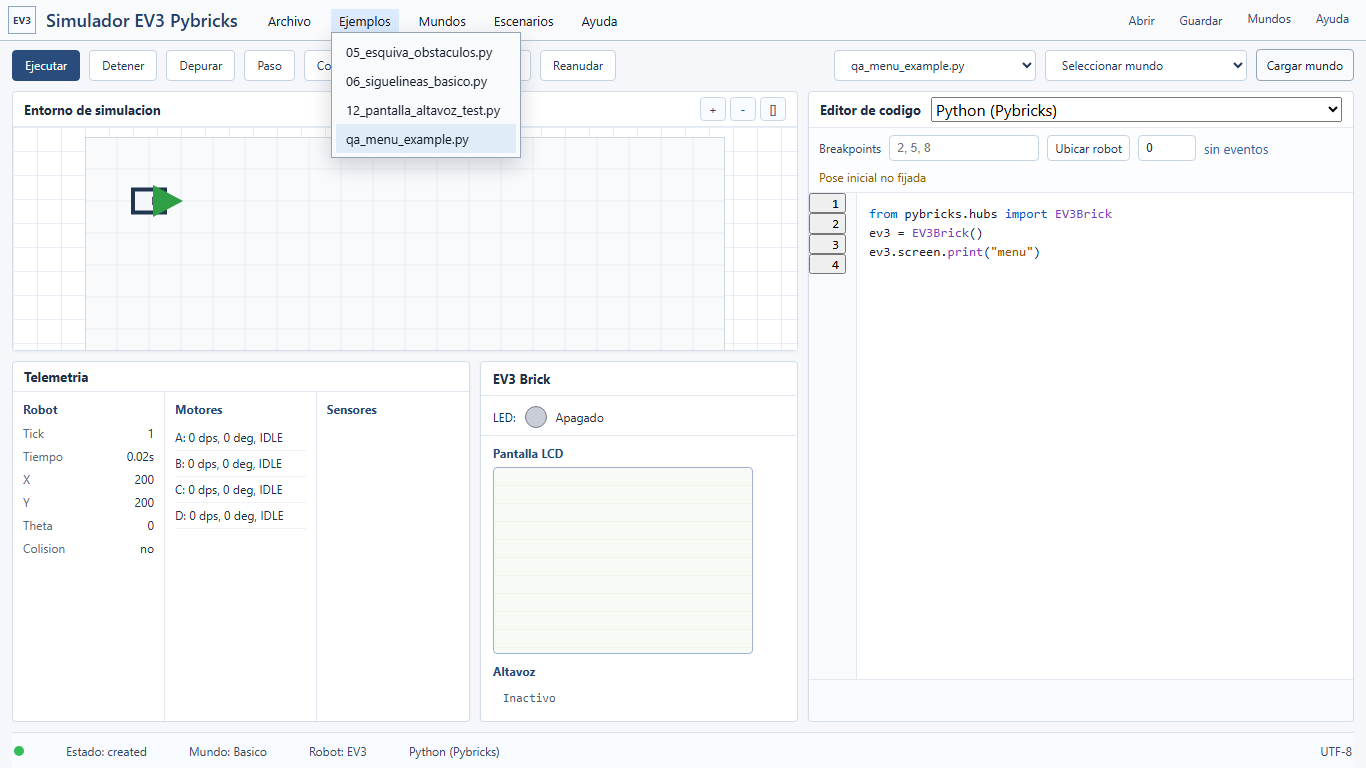
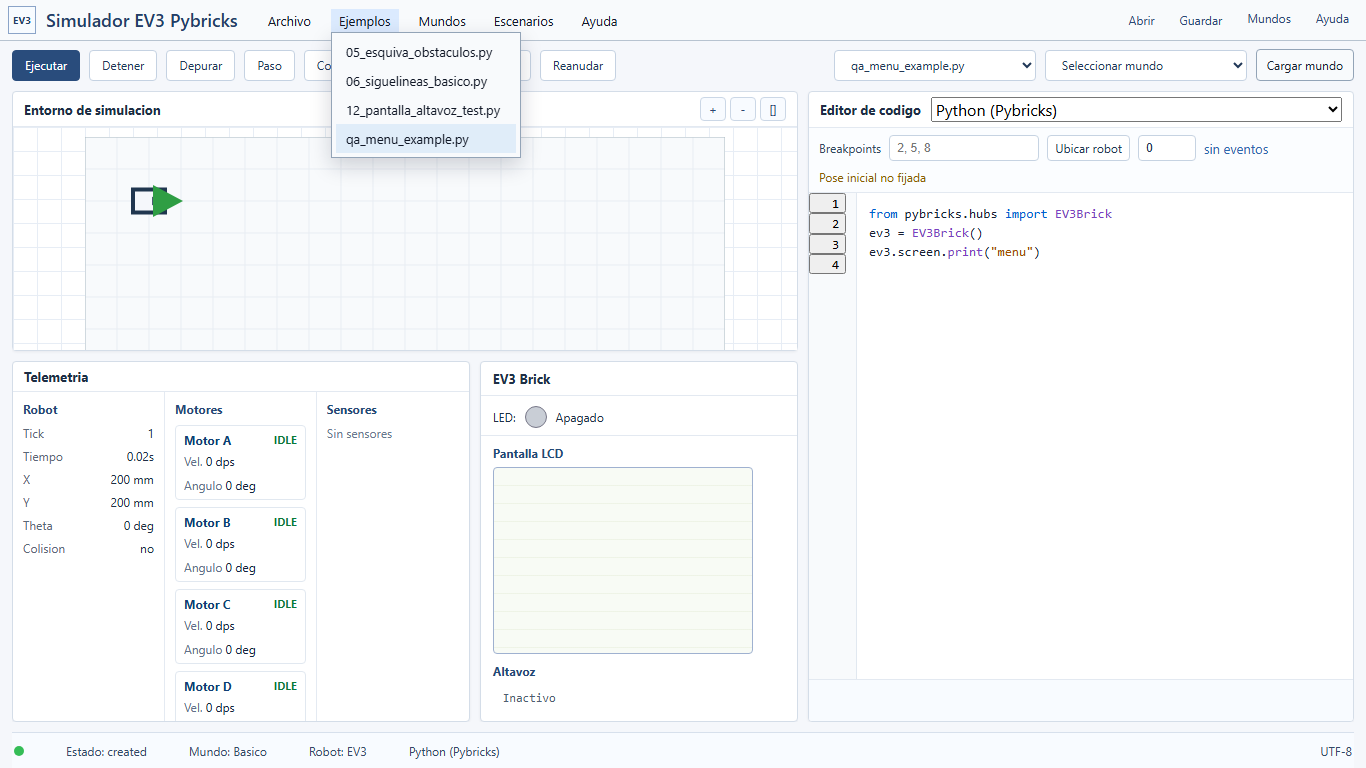
ui: mejorar lectura de telemetria

diff --git a/simulador_ev3/web/static/js/simulation_app.js b/simulador_ev3/web/static/js/simulation_app.js
@@ -153,10 +153,80 @@
   }
 
   function escapeHtml(value) {
-    return value
+    return String(value ?? "")
       .replaceAll("&", "&amp;")
       .replaceAll("<", "&lt;")
       .replaceAll(">", "&gt;");
+  }
+
+  function formatTelemetryNumber(value, digits = 2) {
+    const number = Number(value);
+    if (!Number.isFinite(number)) return "--";
+    return Number.isInteger(number) ? String(number) : number.toFixed(digits);
+  }
+
+  function formatTelemetryValue(value) {
+    if (value === true) return "si";
+    if (value === false) return "no";
+    if (value === null || value === undefined) return "--";
+    if (typeof value === "number") return formatTelemetryNumber(value);
+    return escapeHtml(value);
+  }
+
+  function readableSensorKey(key) {
+    return {
+      distance_mm: "Distancia",
+      presence: "Presencia",
+      reflected: "Reflejado",
+      ambient: "Ambiente",
+      color: "Color",
+      angle: "Angulo",
+      speed: "Velocidad",
+    }[key] || key.replaceAll("_", " ");
+  }
+
+  function sensorUnit(key) {
+    return {
+      distance_mm: " mm",
+      angle: " deg",
+      speed: " dps",
+    }[key] || "";
+  }
+
+  function renderMotorTelemetry(motor) {
+    const state = escapeHtml(motor.state || "IDLE");
+    return `
+      <article class="telemetry-card motor-card">
+        <div class="telemetry-card-title">
+          <span>Motor ${escapeHtml(motor.port)}</span>
+          <span class="telemetry-state">${state}</span>
+        </div>
+        <div class="motor-metrics">
+          <span><b>Vel.</b> ${formatTelemetryNumber(motor.speed)} dps</span>
+          <span><b>Angulo</b> ${formatTelemetryNumber(motor.angle)} deg</span>
+        </div>
+      </article>
+    `;
+  }
+
+  function renderSensorTelemetry(sensor) {
+    const value = sensor.value || {};
+    const entries = Object.entries(value).filter(([key]) => key !== "port");
+    const rows = entries.length
+      ? entries.map(([key, item]) => `
+          <dt>${escapeHtml(readableSensorKey(key))}</dt>
+          <dd>${formatTelemetryValue(item)}${sensorUnit(key)}</dd>
+        `).join("")
+      : "<dt>Valor</dt><dd>--</dd>";
+    return `
+      <article class="telemetry-card">
+        <div class="telemetry-card-title">
+          <span>${escapeHtml(sensor.port)}</span>
+          <span>${escapeHtml(sensor.type)}</span>
+        </div>
+        <dl class="telemetry-mini-list">${rows}</dl>
+      </article>
+    `;
   }
 
   function highlightCodeLine(line) {
@@ -555,19 +625,21 @@
     telemetry.innerHTML = `
       <dt>Tick</dt><dd>${snapshot.tick}</dd>
       <dt>Tiempo</dt><dd>${snapshot.sim_time_s}s</dd>
-      <dt>X</dt><dd>${robot.x_mm}</dd>
-      <dt>Y</dt><dd>${robot.y_mm}</dd>
-      <dt>Theta</dt><dd>${robot.theta_deg}</dd>
+      <dt>X</dt><dd>${formatTelemetryNumber(robot.x_mm)} mm</dd>
+      <dt>Y</dt><dd>${formatTelemetryNumber(robot.y_mm)} mm</dd>
+      <dt>Theta</dt><dd>${formatTelemetryNumber(robot.theta_deg)} deg</dd>
       <dt>Colision</dt><dd>${snapshot.colliding ? "si" : "no"}</dd>
     `;
     const motors = document.getElementById("motors");
-    motors.innerHTML = (snapshot.motors || [])
-      .map((m) => `<div>${m.port}: ${m.speed} dps, ${m.angle} deg, ${m.state}</div>`)
-      .join("");
+    const motorItems = snapshot.motors || [];
+    motors.innerHTML = motorItems.length
+      ? motorItems.map(renderMotorTelemetry).join("")
+      : '<p class="telemetry-empty">Sin motores</p>';
     const sensors = document.getElementById("sensors");
-    sensors.innerHTML = (snapshot.sensors || [])
-      .map((s) => `<div>${s.port}: ${s.type} = ${JSON.stringify(s.value)}</div>`)
-      .join("");
+    const sensorItems = snapshot.sensors || [];
+    sensors.innerHTML = sensorItems.length
+      ? sensorItems.map(renderSensorTelemetry).join("")
+      : '<p class="telemetry-empty">Sin sensores</p>';
   }
 
   function updateBrick(snapshot) {

diff --git a/simulador_ev3/web/static/css/app.css b/simulador_ev3/web/static/css/app.css
@@ -631,17 +631,78 @@ dd {
   font-family: Segoe UI, Arial, sans-serif;
 }
 
-.sim-telemetry-pane #motors > div,
-.sim-telemetry-pane #sensors > div {
-  margin: 0;
-  padding: 5px 0;
-  border: 0;
-  border-bottom: 1px solid #eef2f6;
+.sim-telemetry-pane #motors,
+.sim-telemetry-pane #sensors {
+  display: grid;
+  gap: 7px;
+}
+
+.telemetry-card {
+  min-width: 0;
+  padding: 7px 8px;
+  border: 1px solid #e1e8f0;
+  border-radius: 4px;
   background: #fff;
   color: #1f2f46;
   font-size: 12px;
-  line-height: 1.25;
+}
+
+.telemetry-card-title {
+  display: flex;
+  justify-content: space-between;
+  gap: 8px;
+  margin-bottom: 5px;
+  color: #0f3f75;
+  font-weight: 700;
+}
+
+.telemetry-state {
+  color: #0a7a39;
+  font-size: 11px;
+}
+
+.telemetry-mini-list {
+  display: grid;
+  grid-template-columns: auto minmax(0, 1fr);
+  gap: 4px 8px;
+  margin: 0;
+}
+
+.telemetry-mini-list dt {
+  color: #607089;
+}
+
+.telemetry-mini-list dd {
+  color: #14253c;
+  text-align: right;
   overflow-wrap: anywhere;
+}
+
+.motor-card {
+  padding: 6px 8px;
+}
+
+.motor-metrics {
+  display: flex;
+  gap: 8px;
+  flex-wrap: wrap;
+  color: #14253c;
+  font-size: 12px;
+}
+
+.motor-metrics span {
+  white-space: nowrap;
+}
+
+.motor-metrics b {
+  color: #607089;
+  font-weight: 400;
+}
+
+.telemetry-empty {
+  margin: 0;
+  color: #68788f;
+  font-size: 12px;
 }
 
 .sim-code-pane {

diff --git a/tests/web/test_web_app.py b/tests/web/test_web_app.py
@@ -313,12 +313,17 @@ def test_telemetry_panel_uses_three_readable_columns(tmp_path):
 
     html = client.get("/").get_data(as_text=True)
     css = client.get("/static/css/app.css").get_data(as_text=True)
+    js = client.get("/static/js/simulation_app.js").get_data(as_text=True)
 
     assert "<h3>Robot</h3>" in html
     assert "<h3>Motores</h3>" in html
     assert "<h3>Sensores</h3>" in html
     assert "grid-template-columns: repeat(3, minmax(120px, 1fr));" in css
     assert ".telemetry-section:last-child" in css
+    assert "renderMotorTelemetry" in js
+    assert "renderSensorTelemetry" in js
+    assert "readableSensorKey" in js
+    assert "JSON.stringify(s.value)" not in js
 
 
 def test_web_editor_places_assets_like_tkinter_tool_origin(tmp_path):
